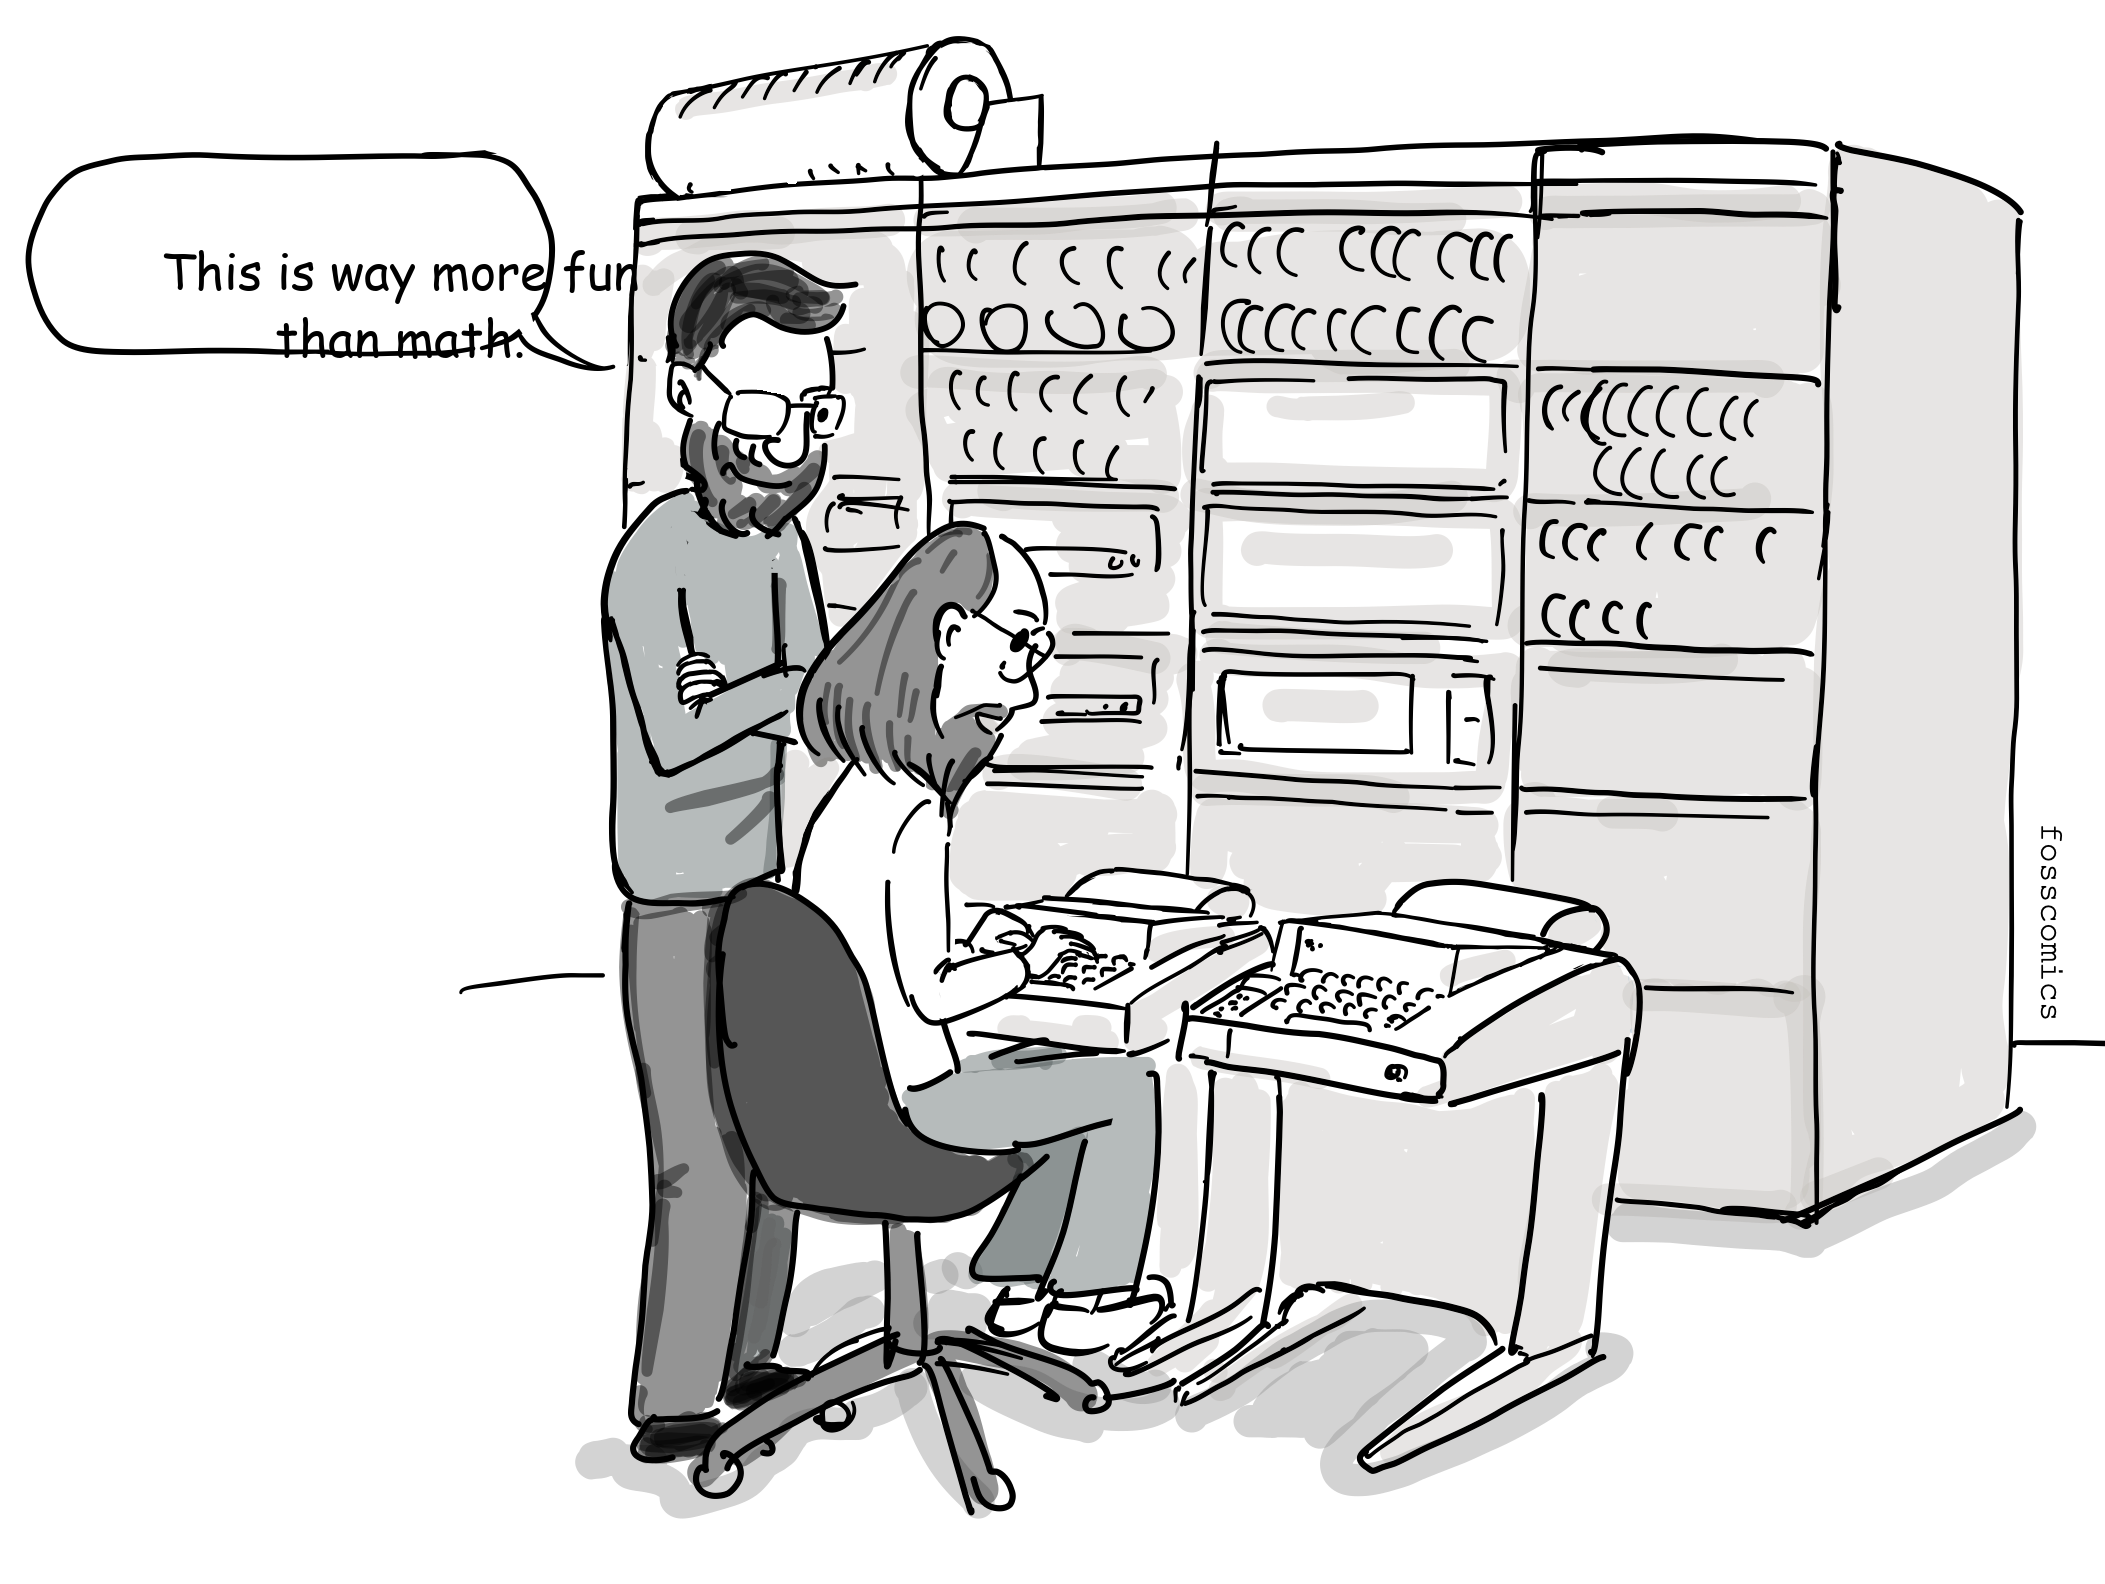
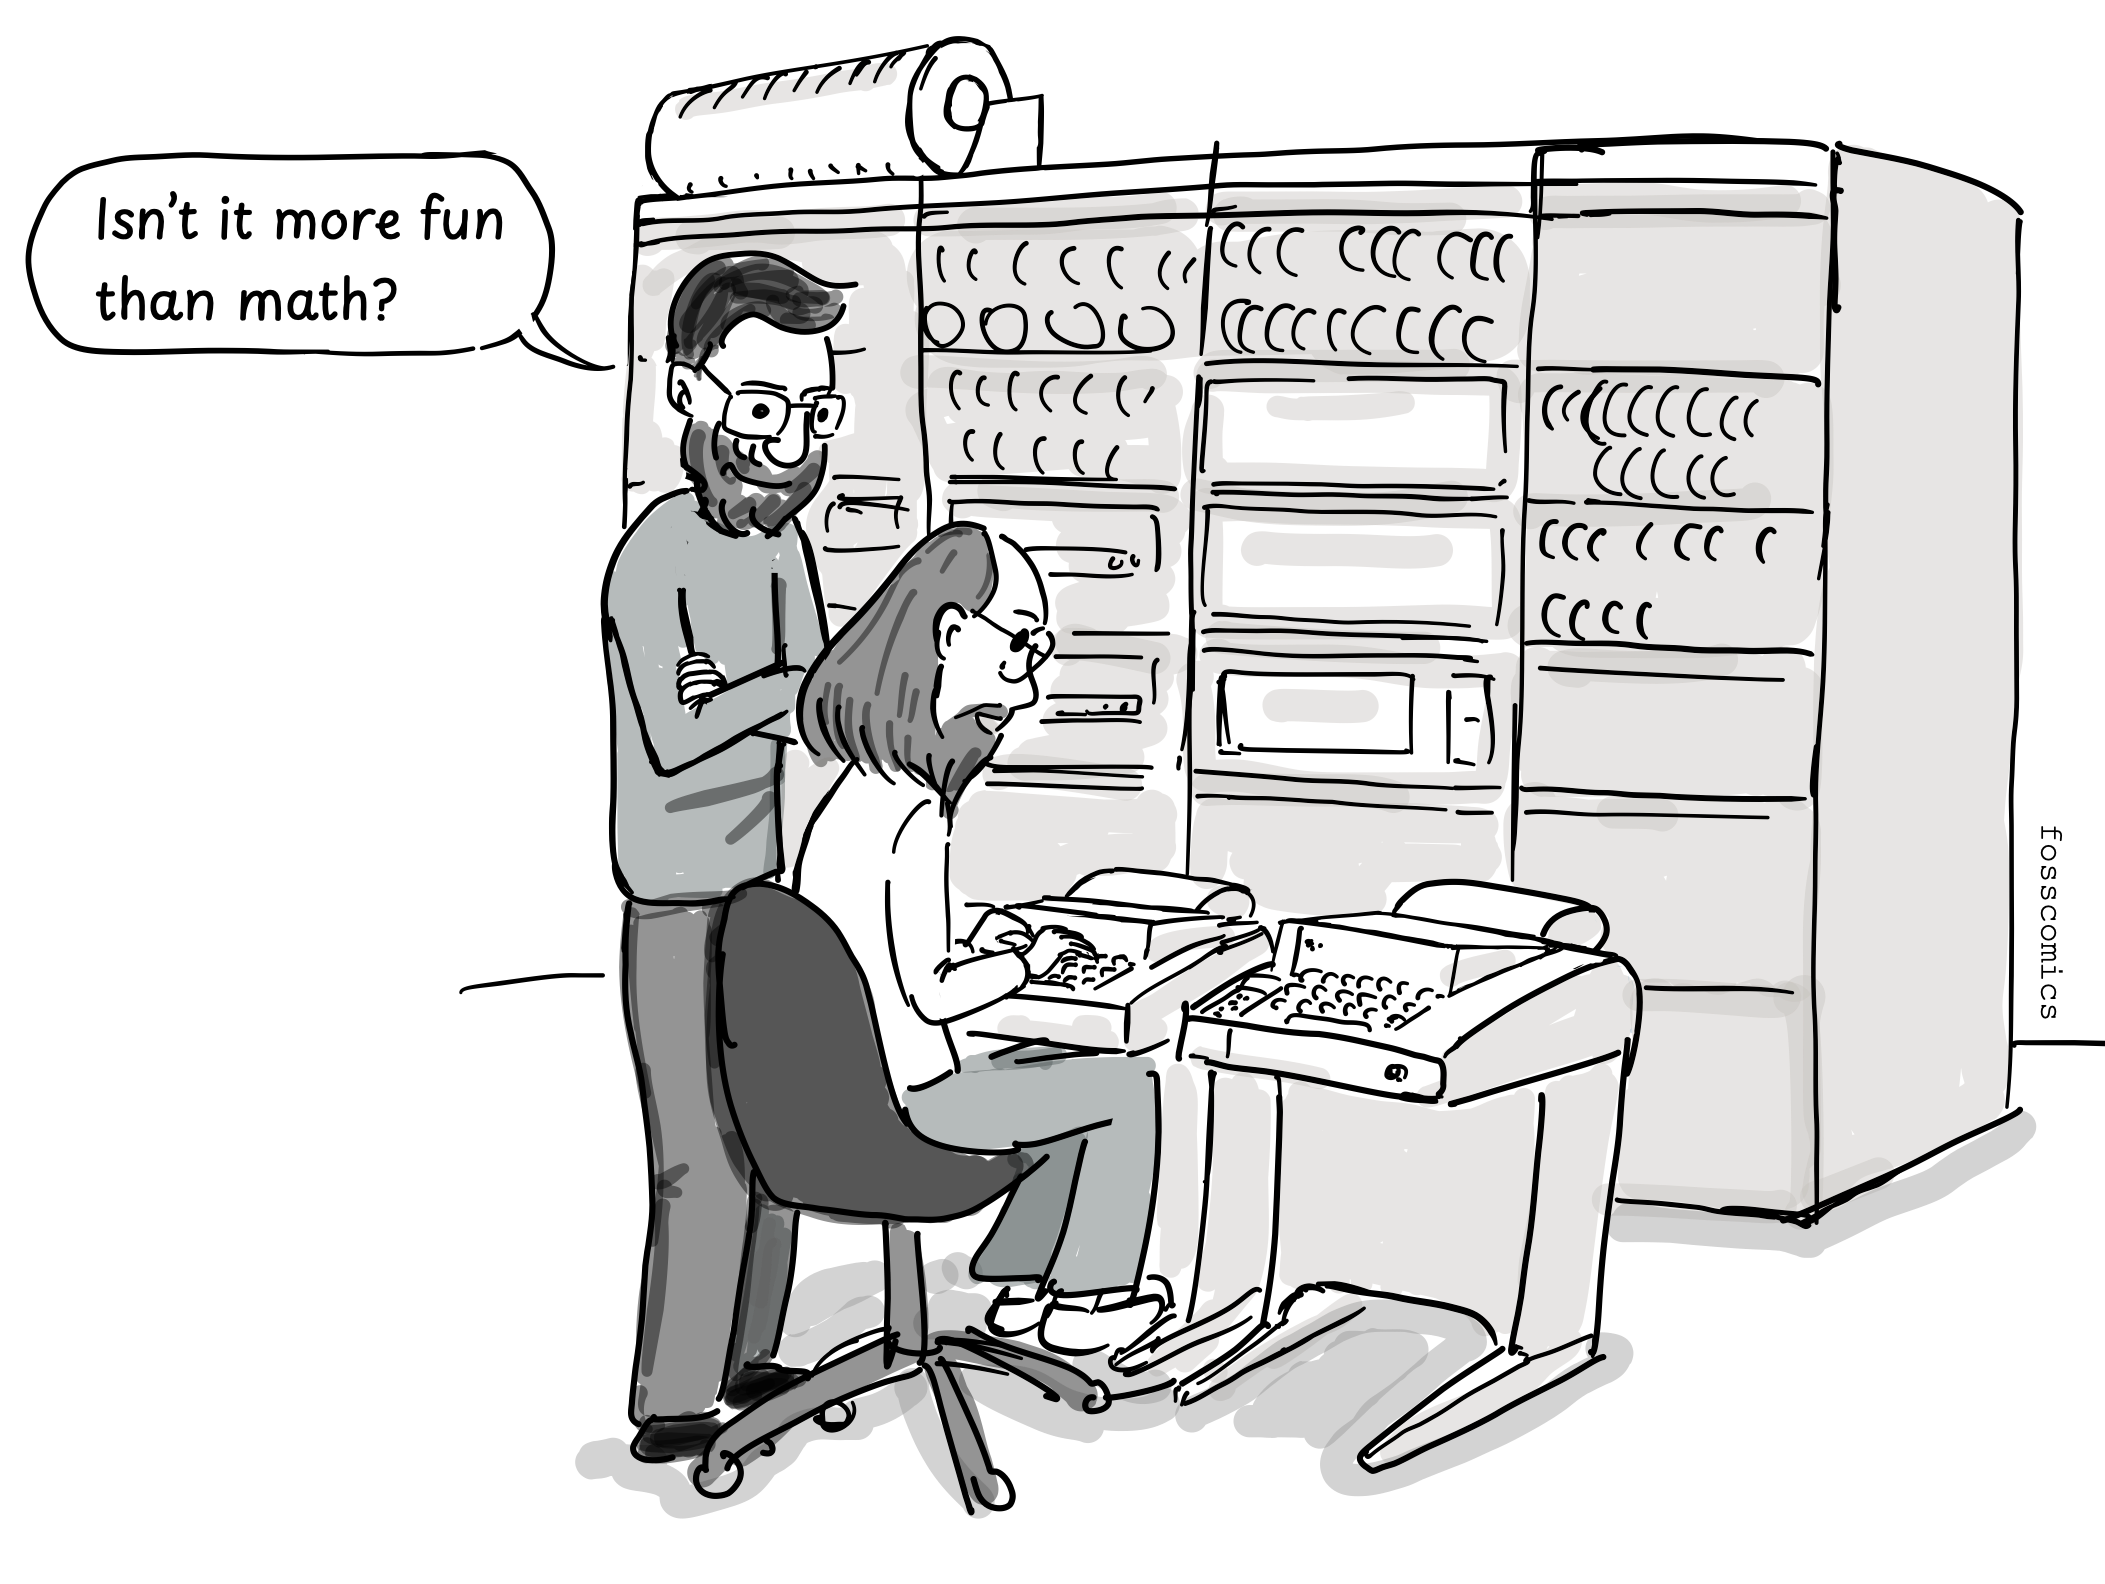
Update quote in "The Beginning of Software Engineering" post for improved clarity

Changed region(s): [[0.0309, 0.1237, 0.3088, 0.2165]]

diff --git a/content/posts/5. The Beginning of Software Engineering/index.md b/content/posts/5. The Beginning of Software Engineering/index.md
@@ -20,7 +20,7 @@ Mathematicians were involved in the invention of early computers so it was easy 
 People who majored in science or engineering learned programming because they could do mathematical calculations and various experiments with computers that were previously done manually. Some of them fell in love with programming and changed their jobs as programmers.
 
 ![A scientist and a programmer work together at a console in front of a mainframe.](images/5_3.png "size:90%")
-> "This is way more fun than math."
+> "Isn't it more fun than math?"
 
 Dennis Ritchie, who helped create Unix and the C programming language, studied physics and applied mathematics at university.
 
